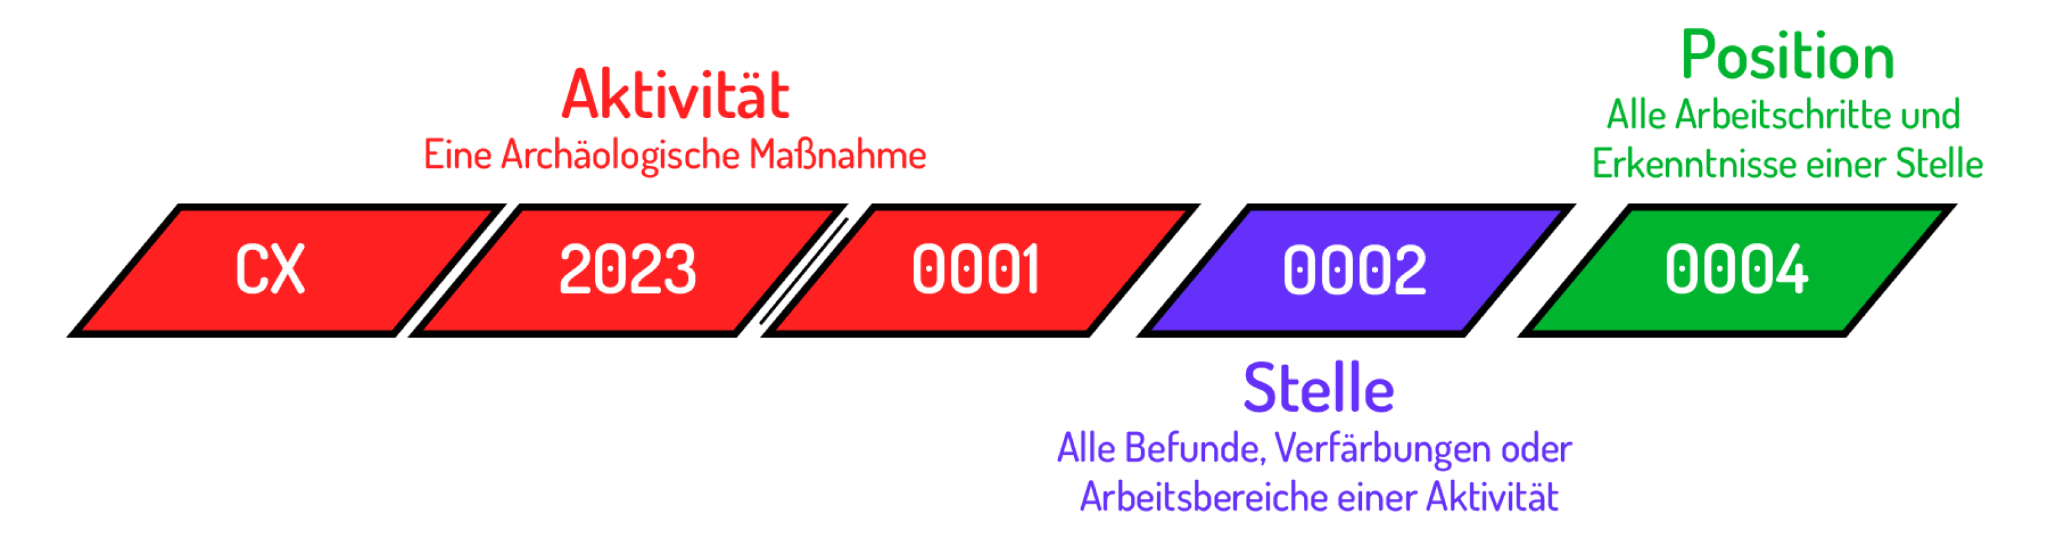
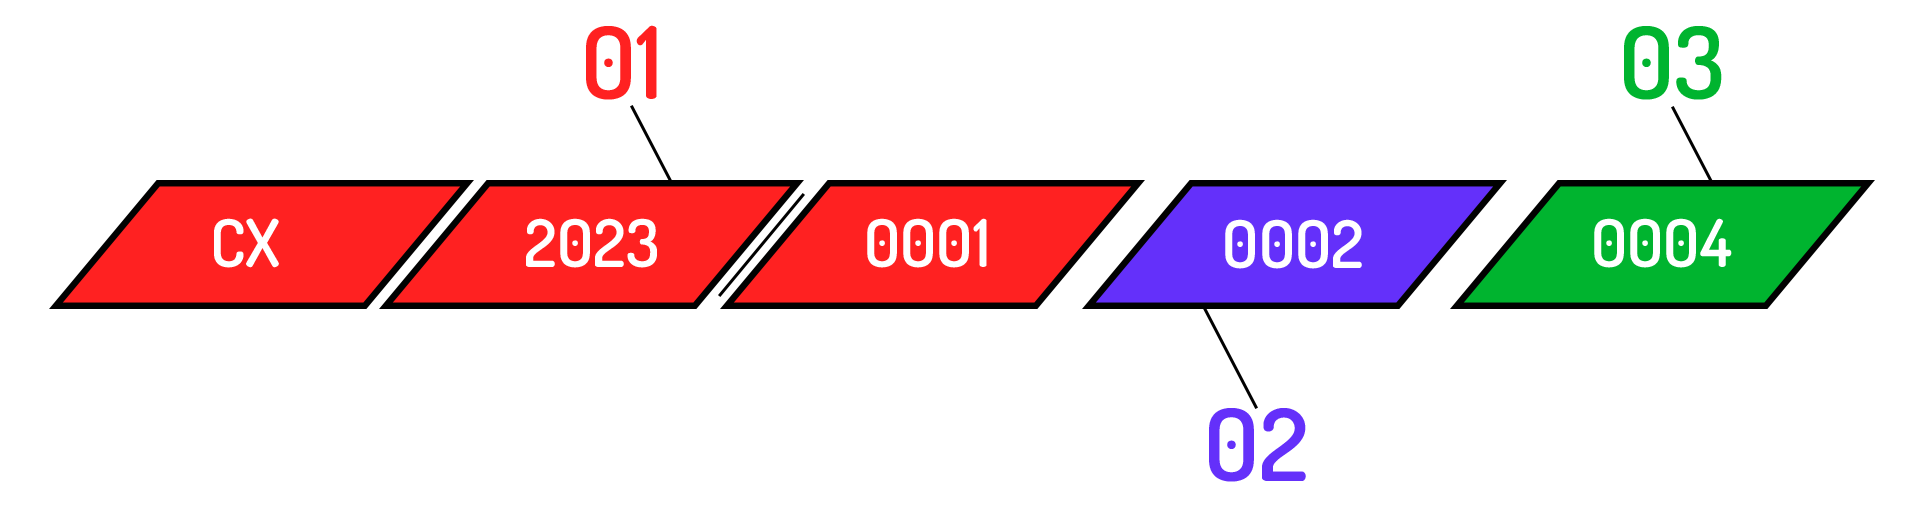
update the stellenkartensystem.png so that it now only has numbers that relate to the table

diff --git a/src/frontend/src/views/Landingpage.vue b/src/frontend/src/views/Landingpage.vue
@@ -2,7 +2,7 @@
  * Created Date: 29.11.2023 13:29:27
  * Author: Oliver Mertens
  * 
- * Last Modified: 09.02.2024 13:21:27
+ * Last Modified: 09.02.2024 13:35:03
  * Modified By: Oliver Mertens
  * 
  * Description: LandingPage as the first entry point for new users
@@ -85,7 +85,7 @@
           </v-row>
         </div>
 
-        <div class="d-flex flex-column justify-center align-center mt-6">
+        <div class="d-flex flex-column justify-center align-center mt-15">
           <v-img 
             src="src/assets/background/stellenkartensystem.png" 
             alt=""
@@ -94,7 +94,7 @@
         </div>
 
         <div class="d-flex flex-column justify-center align-center text-center">
-          <v-row class="mt-12">
+          <v-row class="">
             <v-col cols="2"></v-col>
             <v-col cols="8"> 
           <v-table class="mt-6">
